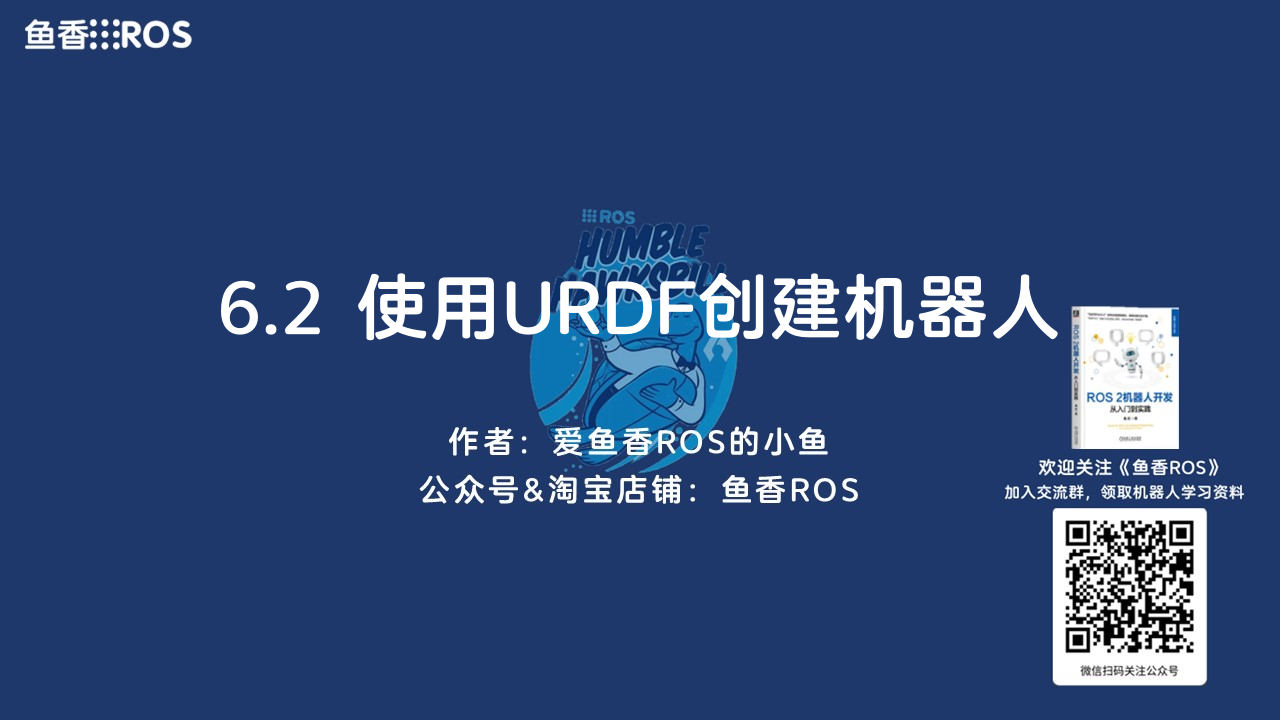
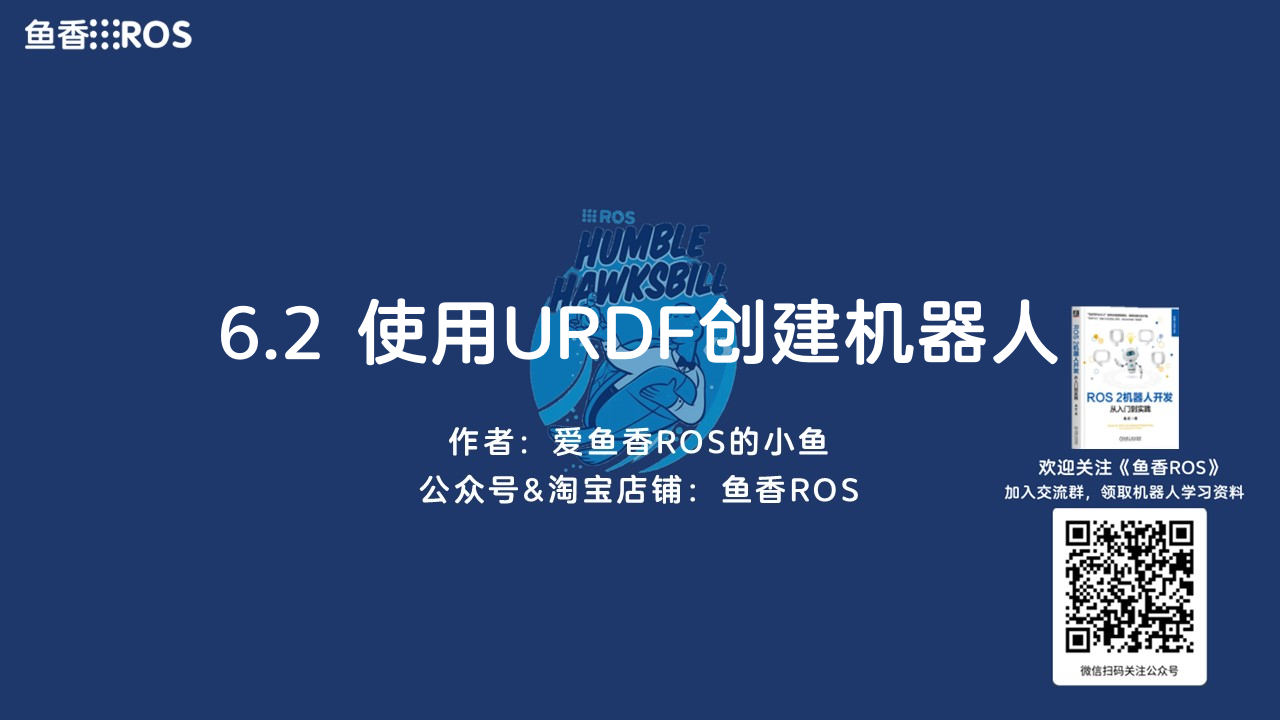
update

Changed region(s): [[0.2812, 0.3667, 0.8438, 0.5194], [0.1562, 0.3667, 0.25, 0.5194]]

diff --git a/title2image.py b/title2image.py
@@ -31,6 +31,8 @@ def download_image(url, save_path):
     else:
         return False
 
+
+
 def generate_image(image_path, title, output_path, font_path, max_line_size, text_color=(255, 255, 255), mask_color=(0, 0, 0, 30), blur_radius=5, offset_y=0):
     """
     生成带有标题文本的图片，并添加蒙板和高斯模糊
@@ -42,43 +44,47 @@ def generate_image(image_path, title, output_path, font_path, max_line_size, tex
         font_path (str): 字体文件路径
         max_line_size (int): 每行的最大字符数
         text_color (tuple): 文本颜色，默认为白色
-        mask_color (tuple): 蒙板颜色和不透明度，默认为半透明黑色
-        blur_radius (int): 高斯模糊半径，默认为10
-
     Returns:
         None
     """
     image = Image.open(image_path)
-    # image = ImageOps.fit(image, (640,480))
-    # 高斯模糊
-    # blurred_image = image.filter(ImageFilter.GaussianBlur(blur_radius))
-
-    # 创建蒙板
-    # mask = Image.new('RGBA', image.size, mask_color)
-
-    # 合并图像和蒙板
-    # masked_image = Image.alpha_composite(blurred_image.convert('RGBA'), mask)
-
-    # 在蒙板上绘制文本
     draw = ImageDraw.Draw(image)
 
     image_width, image_height = image.size
     text_width = (6 / 7) * image_width
-    text_height = (2 / 3) * image_height
     max_line_size = int(max_line_size)
     offset_y = int(offset_y)
-    font_size = int(text_width/max_line_size)
+
+    # 设置字体大小，计算每行的最大宽度和高度
+    font_size = int(text_width / max_line_size)
     font = ImageFont.truetype(font_path, font_size)
 
-    text_x = image_width/2
-    text_y = (image_height) / 2 - offset_y
+    # 对标题进行换行处理
+    text_lines = textwrap.wrap(title, max_line_size)
 
-    text_lines = '\n'.join(textwrap.wrap(title, max_line_size))
-    draw.text((text_x, text_y), text_lines,anchor='mm',fill=text_color, font=font)
+    # 计算文本总高度，使用 getbbox 计算单行文本的高度
+    line_height = font.getbbox('A')[3] - font.getbbox('A')[1]+20  # 获取字符 'A' 的上下边界，得出高度
+    total_text_height = line_height * len(text_lines)
+
+    # 起始位置 (x, y)，使文本垂直居中
+    text_x = image_width / 2
+    text_y = (image_height - total_text_height) / 2 - offset_y
+
+    # 绘制文本，逐行进行居中对齐
+    for line in text_lines:
+        # 使用 textbbox 代替 textsize 来获取文本边界框
+        bbox = draw.textbbox((0, 0), line, font=font)
+        line_width = bbox[2] - bbox[0]
+        
+        # 绘制文本并水平居中
+        draw.text((text_x - line_width / 2, text_y), line, fill=text_color, font=font)
+        text_y += line_height
 
     # 保存生成的图片
     image.save(output_path, "PNG")
     image.close()
+
+
 
 @app.route('/generate_image', methods=['GET'])
 def generate_image_api():
@@ -92,7 +98,7 @@ def generate_image_api():
     # if download_success:
     # 调用生成图片函数
     image_path = "your_image.jpg"
-    output_image_path = "output_image.png"  # 注意保存为 PNG 格式，以支持透明度
+    output_image_path = f"{title}.png"  # 注意保存为 PNG 格式，以支持透明度
     font_path = "HYZY.otf"
     generate_image(image_path, title, output_image_path, font_path, max_line_size,offset_y=offset_y)
     # 返回生成的图片
